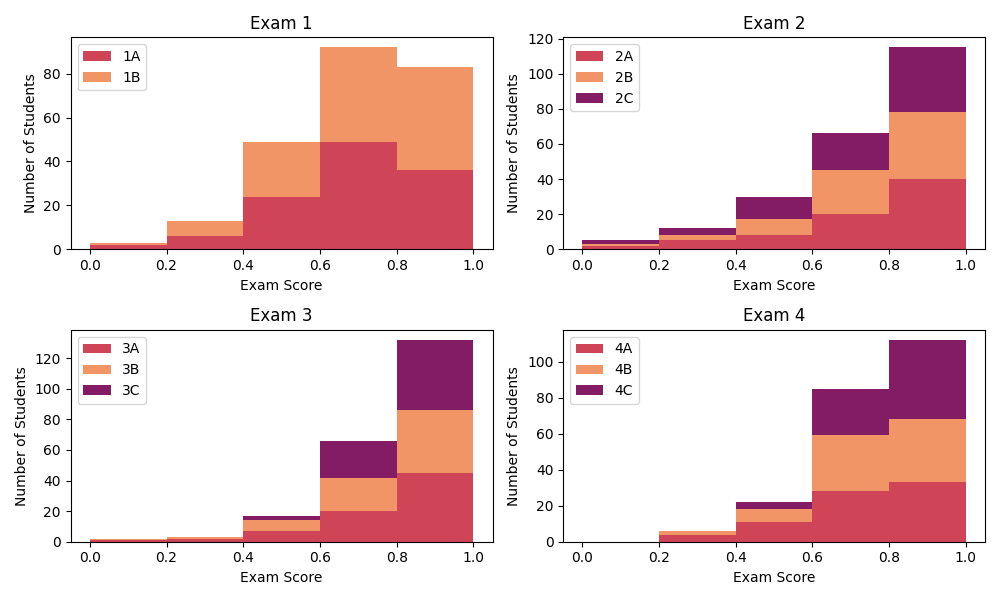
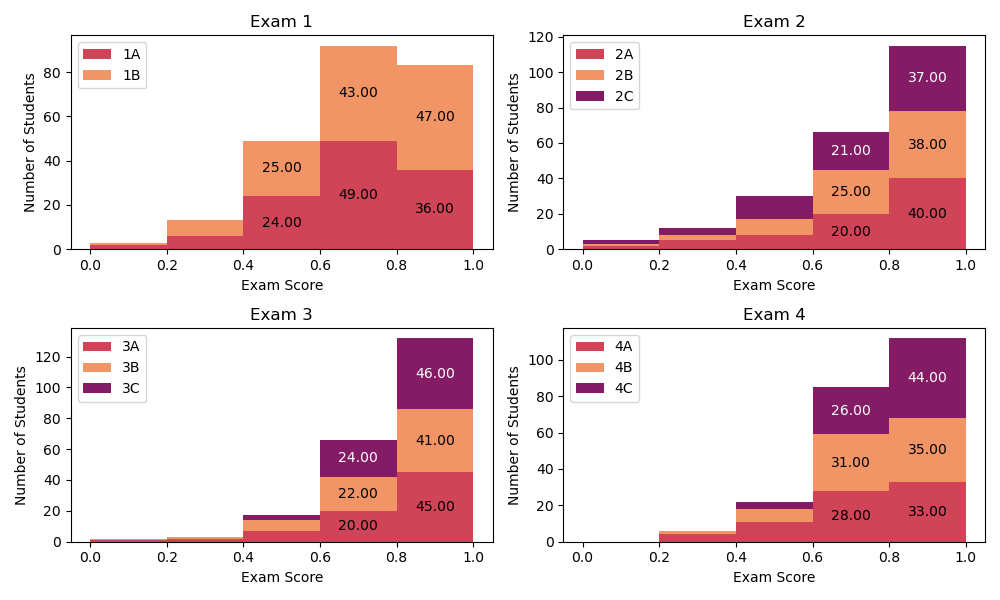
Updated observed score distribution plots with text.

diff --git a/analyses/observed_score_statistics_and_distributions.py b/analyses/observed_score_statistics_and_distributions.py
@@ -5,6 +5,7 @@ except ImportError:
 
 import pandas as pd
 import matplotlib.pyplot as plt
+import numpy as np
 
 custom_palette = ['#cf4456', '#f29566', '#831c64', '#2f0f3e', '#feedb0']
 
@@ -44,13 +45,36 @@ def add_os_subplot(exam_scores, axis, bins, exam_keys, title):
     data_list = []
     for key in exam_keys:
         data_list.append(exam_scores[exam_scores["exam_id"].isin([key])]["exam_score_percent"].values)
-    print(data_list)
-    print(bins)
-    axis.hist(data_list, bins, histtype='bar', stacked = True, label=exam_keys)
+
+    # Calculate histogram values for annotations
+    hist_values = []
+    for data in data_list:
+        counts, _ = np.histogram(data, bins=bins)
+        hist_values.append(counts)
+
+    # The actual plotting
+    n_bins = len(bins) - 1  # Number of bins
+    cumulative_counts = np.zeros(n_bins)  # Keep track of where the last bar ended
+
+    bars = axis.hist(data_list, bins, histtype='bar', stacked=True, label=exam_keys)
+    text_color = ["black", "black", "white"]
+    for i, key in enumerate(exam_keys):  # Iterate through each exam type
+        for j, rect in enumerate(bars[2][i]):  # Iterate through each bar in a given exam type
+            height = rect.get_height()
+            if height >= 20:  # Only add label if bar is visible
+                x_center = rect.get_x() + rect.get_width() / 2
+                y_center = cumulative_counts[j] + height / 2  # Stack bars
+                text_label = f"{height:.2f}"  # Convert count to int for cleaner label
+                
+                axis.text(x_center, y_center, text_label, ha='center', va='center', 
+                          color=text_color[i] if height > np.max(hist_values)/3 else 'black')  # Adjust color
+            cumulative_counts[j] += height  # Update cumulative height for next bar
+
     axis.legend(prop={'size': 10})
     axis.set_xlabel("Exam Score")
     axis.set_ylabel("Number of Students")
     axis.set_title(title)
+
 
 def save_os_distribution_plots(exam_scores = None, filename = None):
     if type(exam_scores) == type(None):
